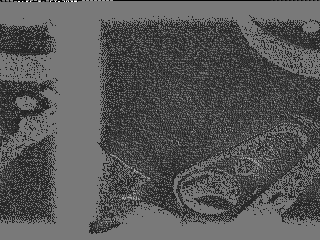
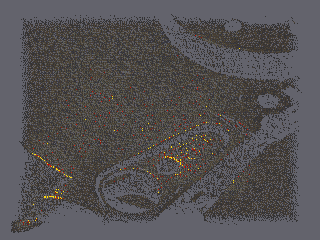
Update HDAE5000 documentation with palette discovery findings
Image Gallery updates:
- Correct ROM offsets from disassembly (0x2898e, 0x3b98e, 0x4e98e, 0x6198e)
- Document palette discovery: main palette at 0x65dce, icon at 0x6158e
- Add hard disk icon (28x28)
- Remove incorrect StartupScreen reference

HDAE5000 page updates:
- Add "Palette Discovery" section with disassembly analysis
- Document boot code at 0x28f585 loading palette
- Document palette load routine at 0x28f8e0
- Update image table with correct CPU addresses

Reverse Engineering updates:
- Add HDAE5000 to Image Locations section
- Add "Palette Discovery Technique" section with example
- Update extraction progress (42 maincpu, 4 hdae5000 images)
- Document convert_images.py tool

diff --git a/hdae5000.md b/hdae5000.md
@@ -156,16 +156,26 @@ The update is loaded via the standard KN5000 firmware update mechanism when the 
 
 ## Embedded Images
 
-Four 320x240 8-bit grayscale images were extracted from the HDAE5000 ROM. These images are likely displayed on the connected PC during HD-TechManager5000 operations.
+Four 8-bit indexed color images were extracted from the HDAE5000 ROM. These images are displayed on the KN5000's LCD during HD-AE5000 operations.
 
-| Image | ROM Offset | Size | Description |
-|-------|------------|------|-------------|
-| [HDAE5000_Logo]({{ site.baseurl }}/image-gallery/#hd-ae5000-product-logo) | 0x28c00 | 76,800 bytes | Product logo with hard disk graphic |
-| [HDAE5000_Hands]({{ site.baseurl }}/image-gallery/#hands-operating-hd-ae5000) | 0x3b800 | 76,800 bytes | Promotional image showing hands operating unit |
-| [HDAE5000_FilePanel]({{ site.baseurl }}/image-gallery/#file-selection-panel) | 0x4e400 | 76,800 bytes | File selection UI with texture buttons |
-| [HDAE5000_StartupScreen]({{ site.baseurl }}/image-gallery/#hd-ae5000-version-2-startup-screen) | 0x60400 | 76,800 bytes | Version 2 startup screen |
+### Palette Discovery
 
-Total embedded image data: 307,200 bytes (~60% of the ROM).
+Disassembly analysis of the boot initialization code at `0x28f585` revealed the palette setup:
+- **Main images** (Logo, Hands, FilePanel): Use palette at ROM offset `0x65dce` (CPU address `0x2E5DCE`)
+- **Icon**: Uses Windows halftone-style palette at ROM offset `0x6158e`
+
+The palette is loaded via a loop at `0x28f8e0` that iterates through all 256 entries, writing each RGB component (shifted right by 4 bits) to the VGA DAC registers at `0x3C8`/`0x3C9`.
+
+### Image Locations
+
+| Image | ROM Offset | CPU Address | Size | Description |
+|-------|------------|-------------|------|-------------|
+| [HDAE5000_Logo]({{ site.baseurl }}/image-gallery/#hd-ae5000-product-logo) | 0x2898e | 0x2A898E | 76,800 bytes | Product logo with hard disk graphic |
+| [HDAE5000_Hands]({{ site.baseurl }}/image-gallery/#hands-operating-hd-ae5000) | 0x3b98e | 0x2BB98E | 76,800 bytes | Promotional image showing hands operating unit |
+| [HDAE5000_FilePanel]({{ site.baseurl }}/image-gallery/#file-selection-panel) | 0x4e98e | 0x2CE98E | 76,800 bytes | File selection UI with texture buttons |
+| [HDAE5000_Icon]({{ site.baseurl }}/image-gallery/#hard-disk-icon) | 0x6198e | 0x2E198E | 784 bytes | Hard disk with magnetic head icon |
+
+Total embedded image data: ~231KB (images) + 2KB (palettes).
 
 See the [Image Gallery]({{ site.baseurl }}/image-gallery/#hdae5000-hard-disk-expansion-rom-images) for the full images.
 
@@ -178,7 +188,7 @@ See the [Image Gallery]({{ site.baseurl }}/image-gallery/#hdae5000-hard-disk-exp
 | Boot initialization | Partial | Main entry at 0x28F576 |
 | Frame handler | Partial | Main entry at 0x28F662 |
 | PPORT commands | Documented | 15 commands identified |
-| Embedded images | **100%** | 4 images extracted (307KB) |
+| Embedded images | **100%** | 4 images + 2 palettes extracted (~233KB) |
 | HD routines | Not started | File operations |
 | Filesystem | Not started | FSB structure unknown |
 

diff --git a/image-gallery.md b/image-gallery.md
@@ -138,13 +138,15 @@ These images show keyboard split point notes displayed when configuring the keyb
 
 ## HDAE5000 Hard Disk Expansion ROM Images
 
-These images were extracted from the HD-AE5000 hard disk expansion ROM. They are 320x240 8-bit grayscale images stored at fixed offsets in the ROM, likely displayed on a connected PC during file transfer operations.
+These images were extracted from the HD-AE5000 hard disk expansion ROM. The images are 8-bit indexed color, displayed on the KN5000's LCD during HD-AE5000 operations.
+
+**Palette discovery**: Disassembly analysis found the boot code at `0x28f585` loads palette data from ROM offset `0x65dce`. The icon uses a separate Windows halftone-style palette at `0x6158e`.
 
 ### HD-AE5000 Product Logo
 
 ![HDAE5000 Logo]({{ "/assets/images/gallery/HDAE5000_Logo.png" | relative_url }})
 
-*320x240, 8-bit grayscale - ROM offset: 0x28c00*
+*320x240, 8-bit indexed color - ROM offset: 0x2898e (CPU: 0x2A898E)*
 
 Shows the HD-AE5000 product name with a stylized hard disk drive graphic.
 
@@ -152,7 +154,7 @@ Shows the HD-AE5000 product name with a stylized hard disk drive graphic.
 
 ![HDAE5000 Hands]({{ "/assets/images/gallery/HDAE5000_Hands.png" | relative_url }})
 
-*320x240, 8-bit grayscale - ROM offset: 0x3b800*
+*320x240, 8-bit indexed color - ROM offset: 0x3b98e (CPU: 0x2BB98E)*
 
 Promotional image showing hands operating the HD-AE5000 unit connected to a KN5000 keyboard.
 
@@ -160,26 +162,27 @@ Promotional image showing hands operating the HD-AE5000 unit connected to a KN50
 
 ![HDAE5000 File Panel]({{ "/assets/images/gallery/HDAE5000_FilePanel.png" | relative_url }})
 
-*320x240, 8-bit grayscale - ROM offset: 0x4e400*
+*320x240, 8-bit indexed color - ROM offset: 0x4e98e (CPU: 0x2CE98E)*
 
 UI panel showing file selection interface with textured button areas.
 
-### HD-AE5000 Version 2 Startup Screen
+### Hard Disk Icon
 
-![HDAE5000 Startup]({{ "/assets/images/gallery/HDAE5000_StartupScreen.png" | relative_url }})
+![HDAE5000 Icon]({{ "/assets/images/gallery/HDAE5000_Icon.png" | relative_url }})
 
-*320x240, 8-bit grayscale - ROM offset: 0x60400*
+*28x28, 8-bit indexed color - ROM offset: 0x6198e (CPU: 0x2E198E)*
 
-Startup screen showing "HD-AE5000 Version 2" with "Start-up!" prompt and decorative graphics.
+Small icon depicting a hard disk with magnetic head, used in UI elements.
 
 ---
 
 ## Image Format Notes
 
 - **Table Data BMP**: Standard Windows BMP format, 8-bit indexed color
-- **Main CPU raw**: Custom format, raw pixel data without headers
+- **Main CPU raw**: Custom format, raw pixel data without headers, uses RGBA palette at `0xEB37DE`
+- **HDAE5000 raw**: Raw pixel data, main images use palette at ROM offset `0x65dce`, icon uses halftone palette at `0x6158e`
 - **1-bit bitmaps**: Monochrome, 224x22 pixels (28 bytes per row)
-- **8-bit bitmaps**: Grayscale, dimensions vary by image
+- **8-bit bitmaps**: 256-color indexed, dimensions vary by image
 - **LCD resolution**: 320x240 pixels (QVGA)
 - **LCD controller**: MN89304 with 4Mbit Video RAM (IC207)
 

diff --git a/reverse-engineering.md b/reverse-engineering.md
@@ -598,10 +598,17 @@ The ROMs contain icons, UI elements, and splash screens for the LCD display.
 - 1-bit status bitmaps (Please Wait, Completed, etc.)
 - UI elements (drawbar sliders, icons)
 - Various graphics referenced by display routines
+- Palette data at `0xEB37DE` (256 colors × 4 bytes RGBA)
 
 **Table Data ROM:**
 - Feature demo BMP images (FTBMP01-06)
 - Additional UI assets
+
+**HDAE5000 ROM:**
+- Product logo, promotional images, UI panels (320×240, 8-bit indexed)
+- Hard disk icon (28×28, 8-bit indexed)
+- Main palette at `0x65dce` (256 colors × 4 bytes RGBA)
+- Icon palette at `0x6158e` (Windows halftone-style)
 
 ### Image Format
 
@@ -618,19 +625,37 @@ The LCD controller is IC206 (MN89304) with 4Mbit Video RAM (IC207).
 
 1. **Scan ROMs** for image signatures (BMP headers: `0x42 0x4D`)
 2. **Trace display code** to find image address references
-3. **Extract to binary files** in `maincpu/images/` and `table_data/images/`
+3. **Extract to binary files** in `maincpu/images/`, `table_data/images/`, or `hdae5000/images/`
 4. **Name descriptively** based on apparent purpose
 5. **Update assembly sources** with `incbin` directives
 6. **Verify byte-match** after rebuild
 
+### Palette Discovery Technique
+
+For indexed color images without obvious palette data, trace the boot/initialization code:
+
+1. **Search for VGA DAC writes** - Look for code writing to `0x3C8` (palette index) and `0x3C9` (RGB data)
+2. **Find the palette load routine** - Often a loop loading 256 entries
+3. **Trace back to find palette address** - The `LDA` instruction before the call reveals the palette location
+
+**Example (HDAE5000):** Boot code at `0x28f585` executes:
+```asm
+lda XWA, 0x2e5dce    ; Palette address (ROM offset 0x65dce)
+calr 0x28f8e0        ; Palette load routine
+```
+
+The load routine at `0x28f8e0` shifts each RGB component right by 4 bits before writing to the 6-bit VGA DAC.
+
 ### Current Progress
 
 **Already extracted:**
-- `maincpu/images/` - 18+ files (1-bit bitmaps, UI elements)
+- `maincpu/images/` - 42 files (1-bit bitmaps, UI elements, logos)
 - `table_data/images/` - 6 BMP files (feature demo screens)
+- `hdae5000/images/` - 4 images + 2 palettes (product images, icon)
 
 **Tools:**
 - `extract_include_binaries.py` - Extraction script
+- `convert_images.py` - Converts raw `.bin` to PNG with correct palettes
 
 ### Conversion for Documentation
 
